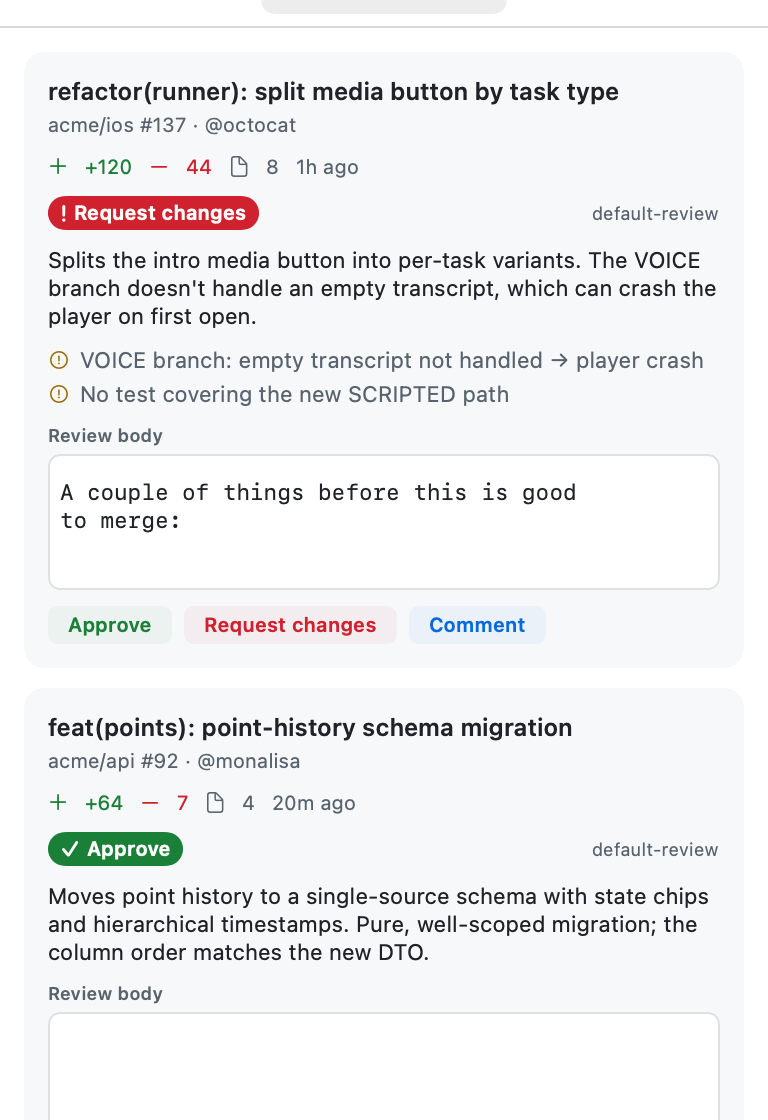
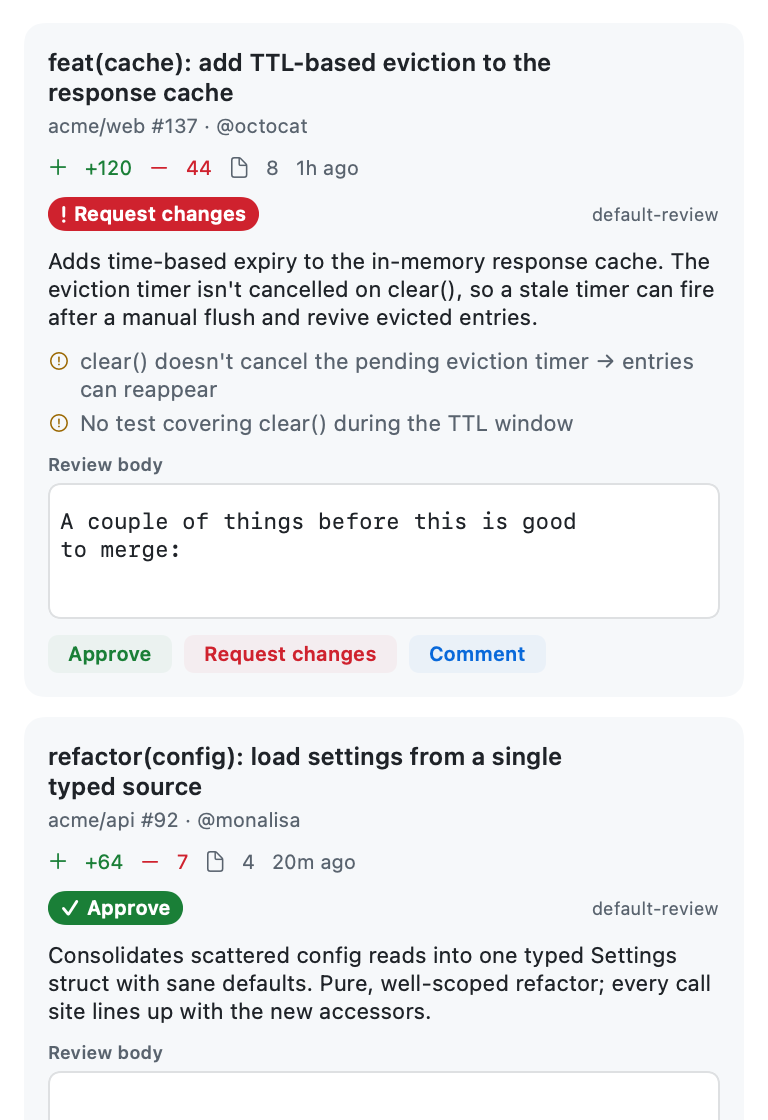
README screenshots: swap mock review PRs for generic examples
Replace the sample PRs with unrelated, generic content (cache TTL eviction,
config consolidation) so they don't resemble any real work.

diff --git a/macos/Sources/PRAgent/Snapshot.swift b/macos/Sources/PRAgent/Snapshot.swift
@@ -72,26 +72,26 @@ enum Snapshot {
         ]
 
         m.reviewQueue = [
-            ReviewRequest(id: "acme/ios#137", owner: "acme", repo: "ios", number: 137,
-                title: "refactor(runner): split media button by task type", url: "",
+            ReviewRequest(id: "acme/web#137", owner: "acme", repo: "web", number: 137,
+                title: "feat(cache): add TTL-based eviction to the response cache", url: "",
                 author: GithubUser(login: "octocat", name: nil, avatarUrl: ""),
                 isDraft: false, additions: 120, deletions: 44, changedFiles: 8,
                 createdAt: ago(3600), updatedAt: ago(1800), reviewed: false,
                 draft: ReviewDraft(
-                    summary: "Splits the intro media button into per-task variants. The VOICE branch doesn't handle an empty transcript, which can crash the player on first open.",
+                    summary: "Adds time-based expiry to the in-memory response cache. The eviction timer isn't cancelled on clear(), so a stale timer can fire after a manual flush and revive evicted entries.",
                     verdict: .requestChanges,
-                    body: "A couple of things before this is good to merge:\n\n- VOICE: guard the empty-transcript case so the player doesn't crash.\n- Add a test for the new SCRIPTED path.",
-                    risks: ["VOICE branch: empty transcript not handled → player crash",
-                            "No test covering the new SCRIPTED path"],
+                    body: "A couple of things before this is good to merge:\n\n- Cancel the eviction timer in clear() so a stale fire can't resurrect entries.\n- Add a test for clear() during the TTL window.",
+                    risks: ["clear() doesn't cancel the pending eviction timer → entries can reappear",
+                            "No test covering clear() during the TTL window"],
                     comments: [], model: "claude-cli", skillsApplied: ["default-review"],
                     generatedAt: now, error: nil)),
             ReviewRequest(id: "acme/api#92", owner: "acme", repo: "api", number: 92,
-                title: "feat(points): point-history schema migration", url: "",
+                title: "refactor(config): load settings from a single typed source", url: "",
                 author: GithubUser(login: "monalisa", name: nil, avatarUrl: ""),
                 isDraft: false, additions: 64, deletions: 7, changedFiles: 4,
                 createdAt: ago(1200), updatedAt: ago(600), reviewed: false,
                 draft: ReviewDraft(
-                    summary: "Moves point history to a single-source schema with state chips and hierarchical timestamps. Pure, well-scoped migration; the column order matches the new DTO.",
+                    summary: "Consolidates scattered config reads into one typed Settings struct with sane defaults. Pure, well-scoped refactor; every call site lines up with the new accessors.",
                     verdict: .approve, body: "",
                     risks: [], comments: [], model: "claude-cli",
                     skillsApplied: ["default-review"], generatedAt: now, error: nil)),